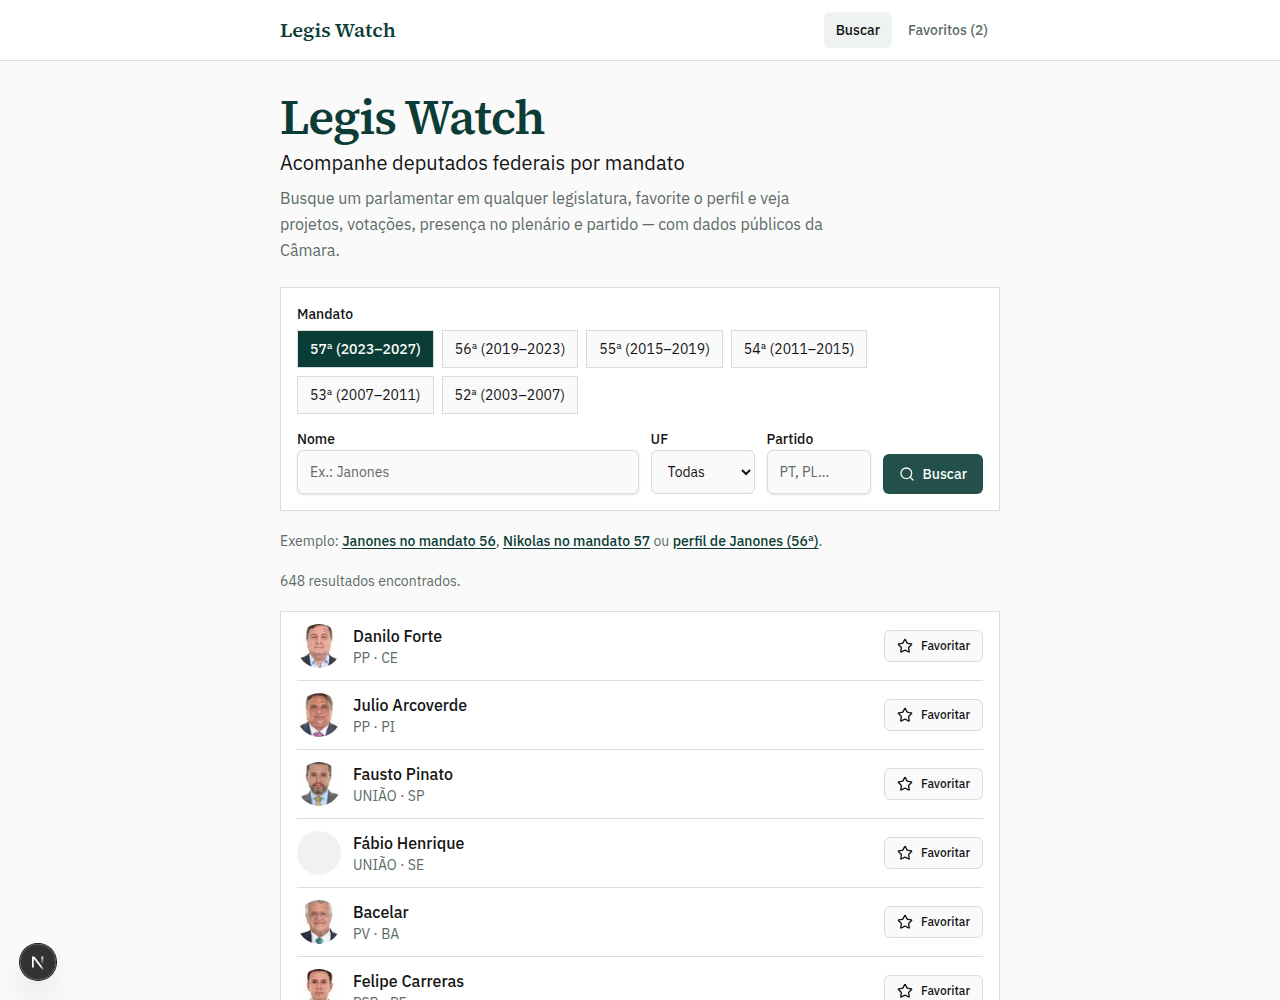
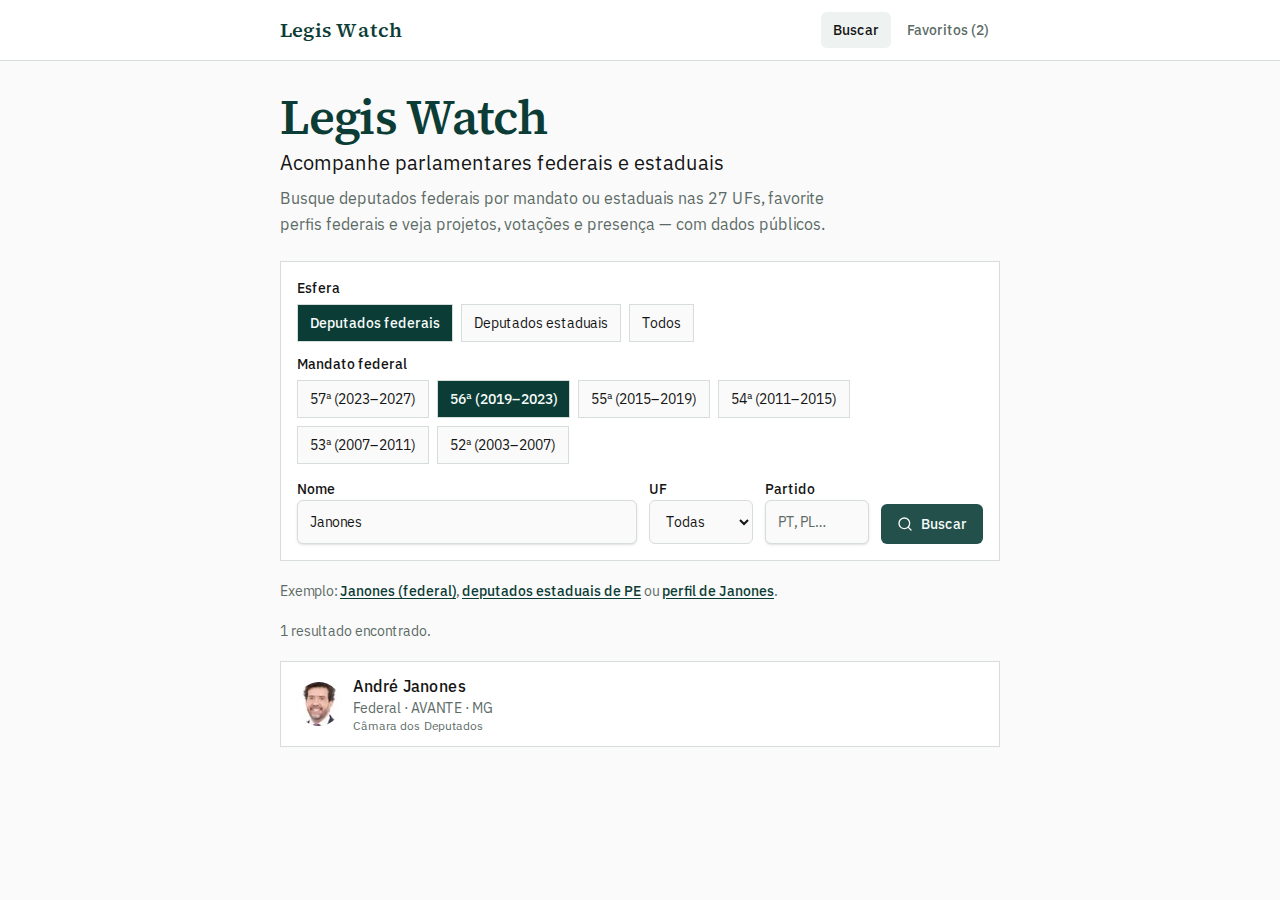
Atualizar todos os prints do guia do produto.
Recaptura as telas federal e estadual via Playwright, inclui busca PE,
ajusta o texto da home para 27 UFs e adiciona npm run docs:screenshots.

diff --git a/src/app/page.tsx b/src/app/page.tsx
@@ -23,7 +23,7 @@ export default async function HomePage() {
           Acompanhe parlamentares federais e estaduais
         </h1>
         <p className="max-w-xl text-sm leading-relaxed text-muted-foreground sm:text-base">
-          Busque deputados da Câmara por mandato ou o piloto estadual (PE),
+          Busque deputados federais por mandato ou estaduais nas 27 UFs,
           favorite perfis federais e veja projetos, votações e presença — com
           dados públicos.
         </p>

diff --git a/docs/README.md b/docs/README.md
@@ -10,7 +10,7 @@ Para entender o que o app faz, com prints das telas.
 
 | Documento | Conteúdo |
 |---|---|
-| [Guia do produto](./GUIA-DO-PRODUTO.md) | Busca (federal + estadual), favoritos, projetos, votações, presença/ata, partido |
+| [Guia do produto](./GUIA-DO-PRODUTO.md) | Busca (federal + estadual), favoritos, projetos, votações, presença/ata, partido — prints atualizados |
 | [Deputados estaduais por UF](./estaduais.md) | Catálogo das 27 UFs, live vs fixture, sync e limitações |
 
 ---
